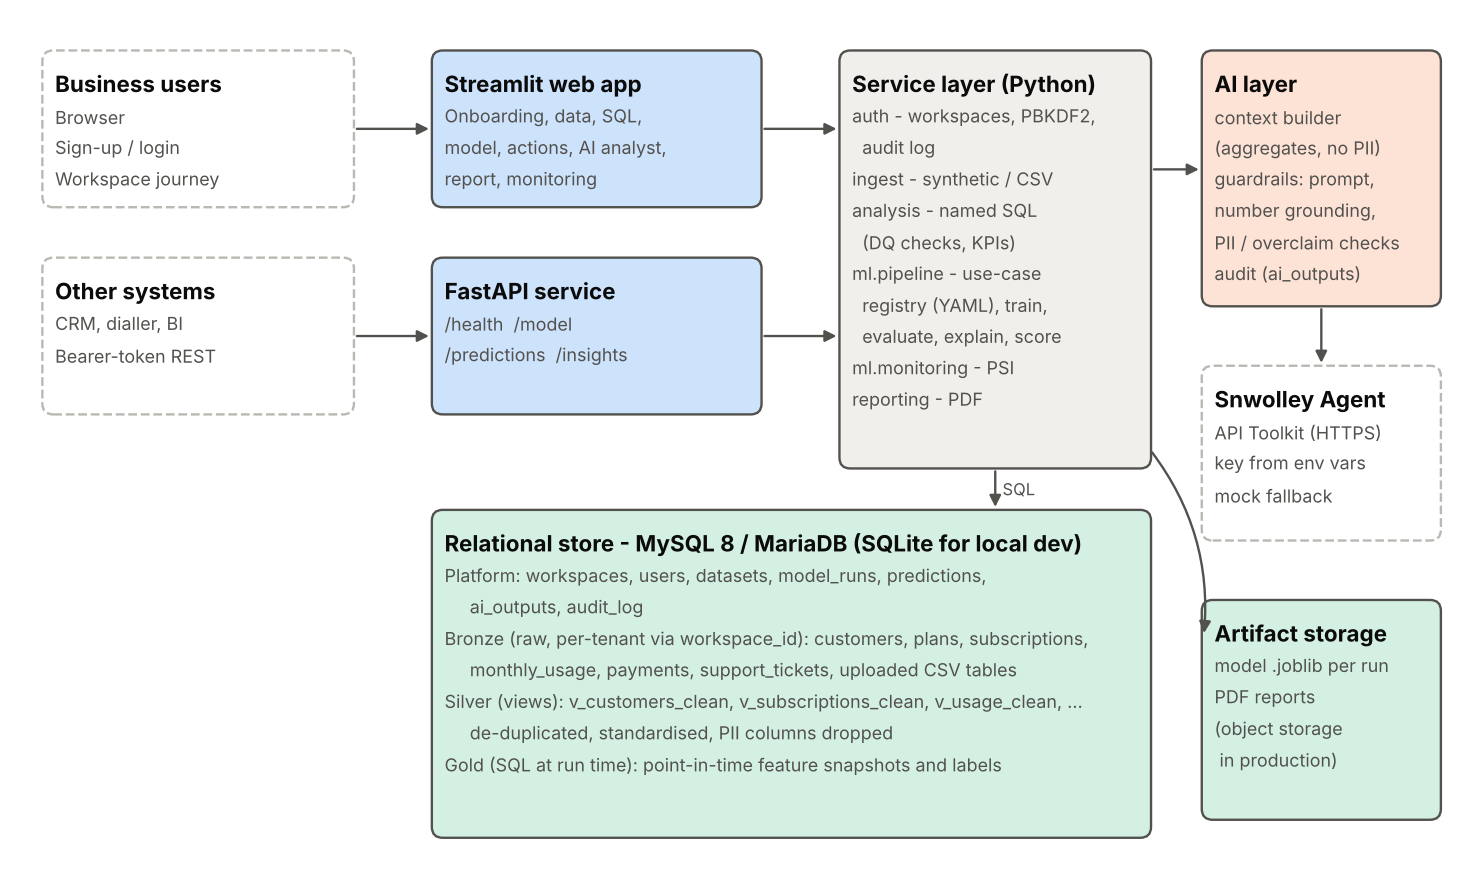
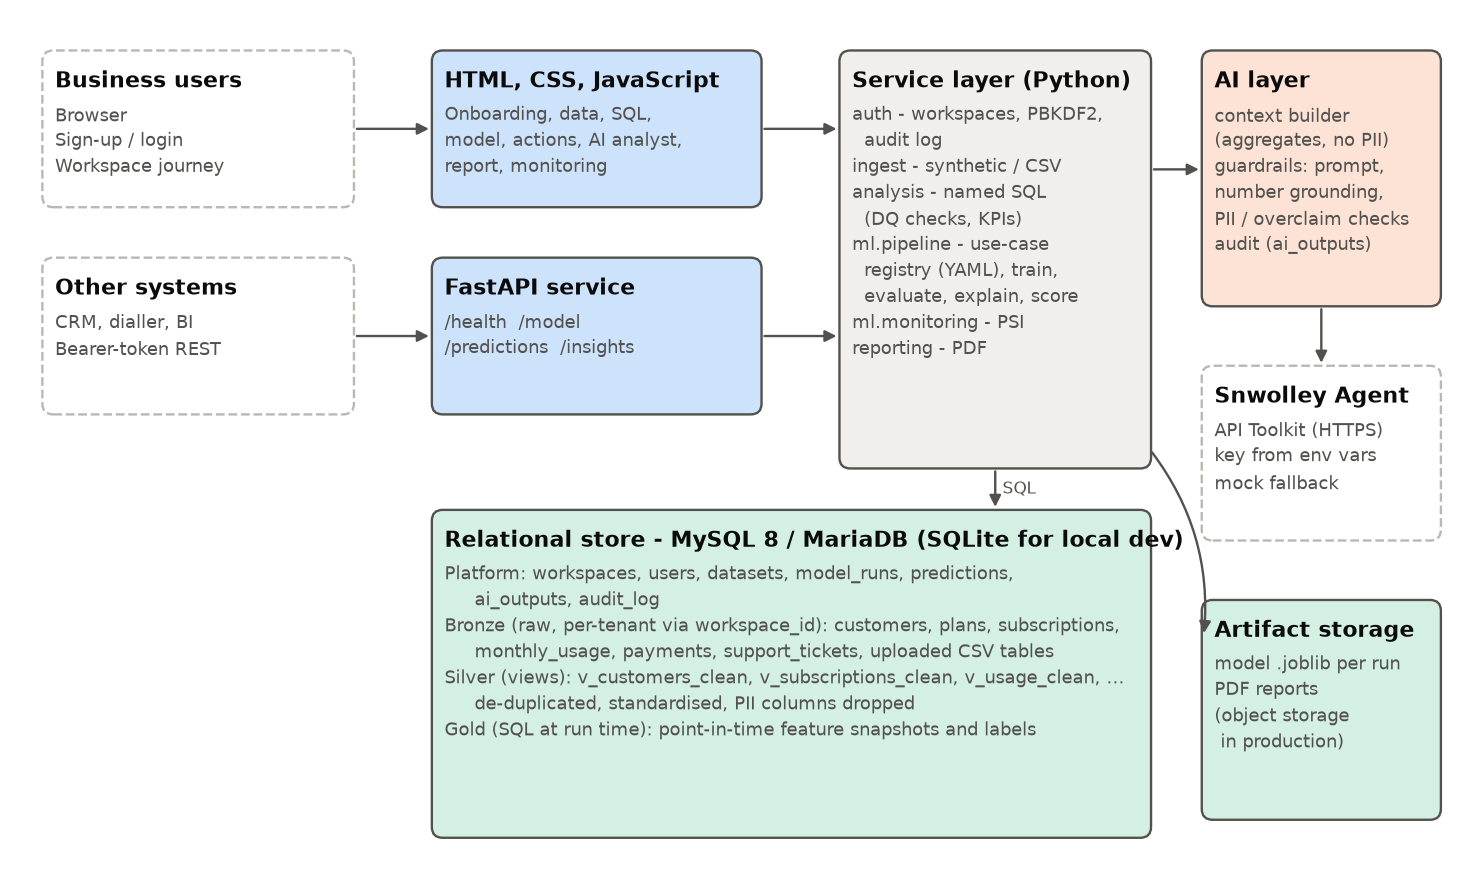
Correct architecture frontend technology

diff --git a/scripts/draw_architecture.py b/scripts/draw_architecture.py
@@ -38,7 +38,7 @@ def main() -> None:
     box(ax, 0.3, 7.2, 3.4, 1.7, "Business users", ["Browser", "Sign-up / login", "Workspace journey"], "ext")
     box(ax, 0.3, 4.9, 3.4, 1.7, "Other systems", ["CRM, dialler, BI", "Bearer-token REST"], "ext")
     # presentation
-    box(ax, 4.6, 7.2, 3.6, 1.7, "Streamlit web app", ["Onboarding, data, SQL,", "model, actions, AI analyst,", "report, monitoring"], "ui")
+    box(ax, 4.6, 7.2, 3.6, 1.7, "HTML, CSS, JavaScript", ["Onboarding, data, SQL,", "model, actions, AI analyst,", "report, monitoring"], "ui")
     box(ax, 4.6, 4.9, 3.6, 1.7, "FastAPI service", ["/health  /model", "/predictions  /insights"], "ui")
     # services
     box(ax, 9.1, 4.3, 3.4, 4.6, "Service layer (Python)", [
